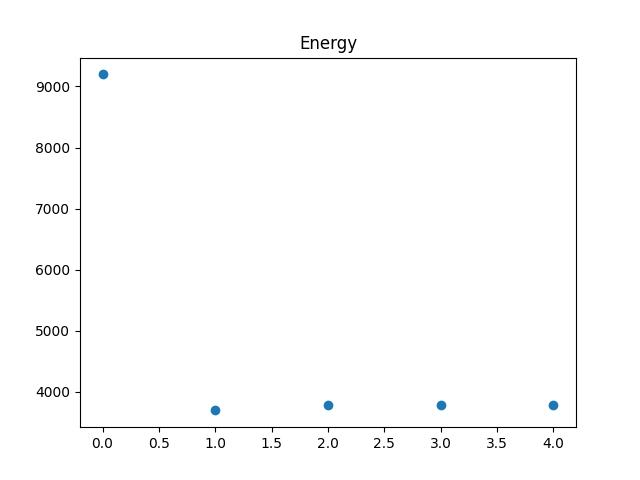
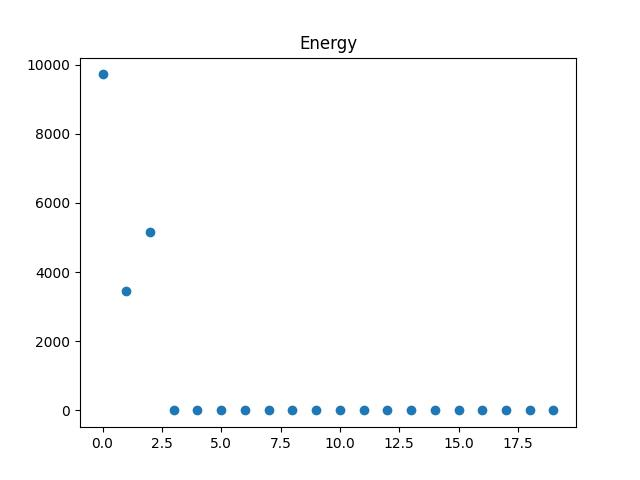
pas mal de changement liés au débugage

diff --git a/demo_control_polycopie2023.py b/demo_control_polycopie2023.py
@@ -12,7 +12,7 @@ import preprocessing
 import processing
 import postprocessing
 #import solutions
-# np.set_printoptions(threshold=np.inf)
+np.set_printoptions(threshold=np.inf)
 
 def compute_J_prim(alpha, u, p) :
     #alpha complexe
@@ -123,7 +123,7 @@ def compute_projected(chi, domain, V_obj):
 
     B = chi.copy()
     l = 0
-    chi = processing.set2zero(chi, domain)
+    chi = processing.set2zero(chi, domain) #normalement pas utile vu comment on fait la descente de gradient
     V = np.sum(np.sum(chi)) / S
     debut = -np.max(np.abs(chi))
     fin = np.max(np.abs(chi))
@@ -147,6 +147,7 @@ def compute_projected(chi, domain, V_obj):
         #print("écart", ecart)
         #print('le volume est', V, 'le volume objectif est', V_obj)
 
+    # print(chi)
     chi=chi_zero_ou_un (M, N, chi, S, V_obj, list_rob)
 
     return chi
@@ -174,32 +175,39 @@ def your_optimization_procedure(domain_omega, spacestep, wavenumber, f, f_dir, f
     """
     k = 0
     (M, N) = np.shape(domain_omega)
-    numb_iter = 5
+    numb_iter = 20
     energy = np.zeros((numb_iter, 1), dtype=np.float64)
     is_good = True
-    while k < numb_iter:
+    bool_b=False
+
+    while k < numb_iter and not bool_b:
         if not is_good:
             mu *= 2
         print(f"k={k}")
         #print('1. computing solution of Helmholtz problem, i.e., u')
         u=processing.solve_helmholtz(domain_omega, spacestep, wavenumber, f, f_dir, f_neu, f_rob, beta_pde, alpha_pde, alpha_dir, beta_neu, beta_rob, alpha_rob)
+        print(u)
         #print('2. computing solution of adjoint problem, i.e., p')
         p=processing.solve_helmholtz(domain_omega, spacestep, wavenumber, np.conjugate(-2*u), np.zeros_like(domain_omega), f_neu, f_rob, beta_pde, alpha_pde, alpha_dir, beta_neu, beta_rob, alpha_rob)
         #print('3. computing objective function, i.e., energy')
-        J=your_compute_objective_function(u)
+        print(domain_omega)
+        print(p)
+        J=your_compute_objective_function(u) #il y a répétition de ces calculs. ils sont deja fait dans le while en dessous.
         energy[k]=J
         print("energie = ",J)
         Jprim=compute_J_prim(Alpha, u, p)
         #print('4. computing parametric gradient')
-        ene=J
+        ene=np.inf
 
         print('-------------', k, '----------------')
         
-        while ene >= energy[k] and mu > 10 ** -5:
+        while ene > energy[k] and mu > 10 ** -5:
             grad = Jprim
             #print('    a. computing gradient descent')
+            # print(grad)
+            # print(chi)
             chi = compute_gradient_descent(chi, grad, domain_omega, mu) #chi_k+1 sans projection (l=0)
-
+            # print(chi)
             #print('    b. computing projected gradient')
             chi = compute_projected(chi, domain_omega, V_obj)
             alpha_rob = Alpha*chi
@@ -218,6 +226,8 @@ def your_optimization_procedure(domain_omega, spacestep, wavenumber, f, f_dir, f
                 # The step is decreased is the energy increased
                 mu = mu / 2
                 is_good = False
+            if ene==energy[k] :
+                bool_b=True
                 
         k += 1
 
@@ -257,7 +267,7 @@ if __name__ == '__main__':
     # ----------------------------------------------------------------------
     # -- set parameters of the geometry
 
-    N = 100  # number of points along x-axis
+    N = 20  # number of points along x-axis
     M = 2 * N  # number of points along y-axis
     level = 1 # level of the fractal
     spacestep = 1.0 / N  # mesh size
@@ -301,8 +311,8 @@ if __name__ == '__main__':
 
     # -- define absorbing material
     import compute_alpha
-    #Alpha = compute_alpha.compute_alpha(N*spacestep, omega, g)
-    Alpha = 6+7j
+    # Alpha = compute_alpha.compute_alpha(N*spacestep, omega, g)
+    Alpha = 7+7j
     alpha_rob = Alpha * chi
     
 
@@ -315,6 +325,7 @@ if __name__ == '__main__':
 
     V_0 = 1  # initial volume of the domain
     V_obj = np.sum(np.sum(chi)) / S  # constraint on the density
+    '''remarquez que la densité est contraint par la fabrication _set_chi'''
     mu = 5  # initial gradient step
     mu1 = 10**(-5)  # parameter of the volume functional
 
